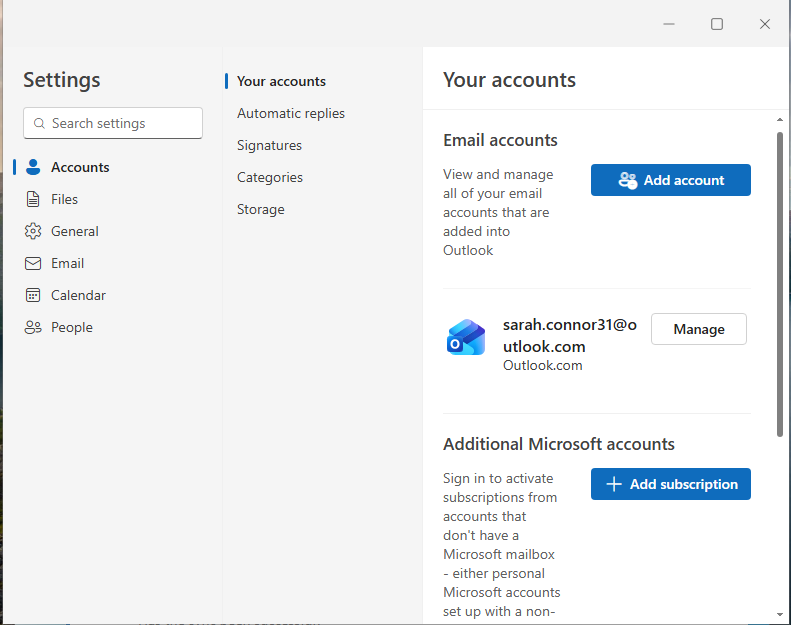
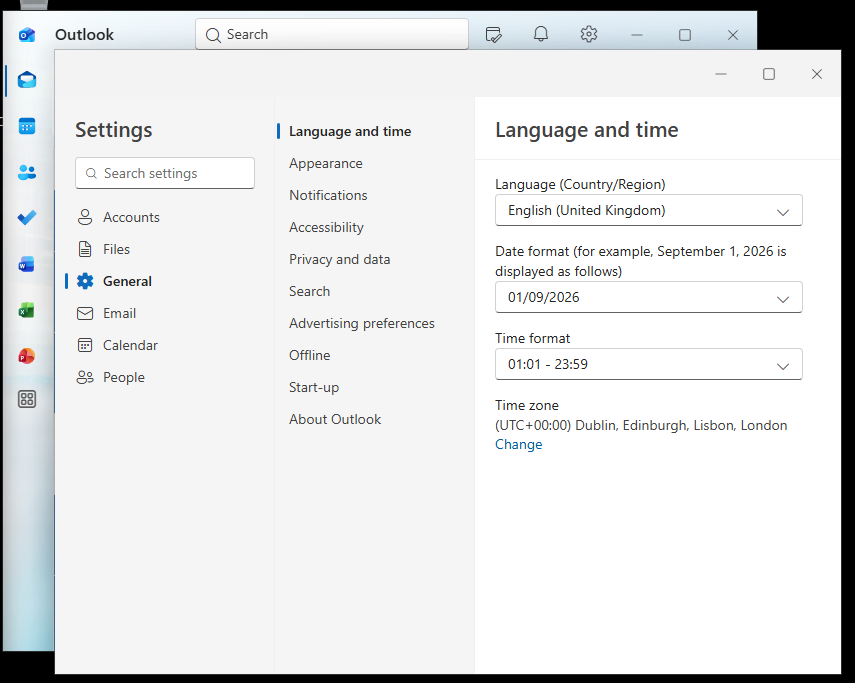
added platform limitation section confirming that modern interface does not provide traditional management

diff --git a/tickets/08-outlook-will-not-open.md b/tickets/08-outlook-will-not-open.md
@@ -86,3 +86,16 @@ This confirmed that the installed Outlook version is the newer Microsoft Store a
 
 📸 **Run command error when attempting Safe Mode:**  
 ![](../images/outlook-safe-mode-error.png)
+
+---
+
+---
+
+### Step 3: Identify Platform Limitation
+
+Further investigation confirmed that the installed Outlook version is the newer Outlook for Windows application.
+
+This version uses a modern interface and does not provide access to traditional add-in management or Safe Mode startup options.
+
+📸 **Outlook settings interface (limited options):**  
+![](../images/outlook-new-interface-settings.png)